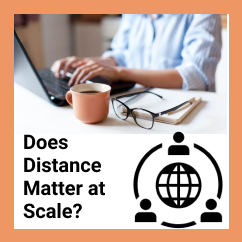
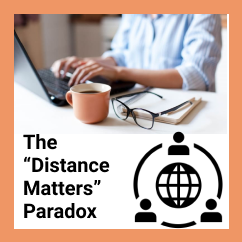
updates to main page and projects page

Changed region(s): [[0.0868, 0.5496, 0.4628, 0.8099], [0.0868, 0.8388, 0.405, 0.9256]]

diff --git a/projects.html b/projects.html
@@ -102,6 +102,26 @@
 
                 <!-- Begin publications section -->
                 <div class="Rtable Rtable--2cols Rtable--collapse">
+                
+                <div class="Rtable-cell" style="width: 165px;">
+                        <img  width="150" height="150" alt="Distance Matters Image" src="images/thumbs/projects/Distance-Matters.png">
+                </div>
+                <div class="Rtable-cell">
+                        <h2>A "Distance Matters" Paradox: Facilitating Intra-Team Collaboration Can Harm Inter-Team Collaboration</h2>
+                        <em>CSCW 2022 (Forthcoming)</em><br>
+                        <b>Xinlan Emily Hu</b>, Rebecca Hinds, Melissa A. Valentine, Michael S. Bernstein
+                        <br><br>
+                        <button type="button" class="collapsible">Read More</button>
+                        <div class="content" style="display: none;">
+                            <p>By identifying the socio-technical conditions required for teams to work effectively remotely, the Distance Matters framework has been influential in CSCW since its introduction in 2000. Advances in collaboration technology and practices have since brought teams increasingly closer to achieving these conditions. This paper presents a ten-month ethnography in a remote organization, where we observed that despite exhibiting excellent remote collaboration, teams paradoxically struggled to collaborate across team boundaries. We extend the Distance Matters framework to account for inter-team collaboration, arguing that challenges analogous to those in the original intra-team framework --- common ground, collaboration readiness, collaboration technology readiness, and coupling of work --- persist but are actualized differently at the inter-team scale. Finally, we identify a fundamental tension between the intra- and inter-team layers: the collaboration technology and practices that help individual teams thrive (e.g., adopting customized collaboration software) can also prompt collaboration challenges in the inter-team layer, and conversely the technology and practices that facilitate inter-team collaboration (e.g., strong centralized IT organizations) can harm practices at the intra-team layer. The addition of the inter-team layer to the Distance Matters framework opens new opportunities for CSCW, where balancing the tension between team and organizational collaboration needs will be a critical technological, operational, and organizational challenge for remote work in the coming decades.</p>
+                            
+                            <p><em>
+                            This project began as my Master's Thesis project for the degree of M.S. in Symbolic Systems at Stanford University. It was recently accepted to the ACM Conference on Computer-Supported Cooperative Work (CSCW).
+
+                            Please email me for a preprint!
+                            </em></p> 
+                        </div>
+                 </div>
 
 
                 <div class="Rtable-cell" style="width: 165px;">
@@ -117,7 +137,7 @@
                         <div class="content" style="display: none;">
                           <p>A jury of one’s peers is a prominent way to adjudicate disputes and is increasingly used in participatory governance online. The fairness of this approach rests on the assumption that juries are consistent: that the same jury would hand down similar judgments to similar cases. However, prior literature suggests that social influence would instead cause early interactions to cascade into different judgments for similar cases. In this paper, we report an online experiment that changes participants’ pseudonyms as they appear to collaborators, temporarily masking a jury’s awareness that they have deliberated together before. This technique allows us to measure consistency by reconvening the same jury on similar cases. Counter to expectation, juries are equally consistent as individuals, a result that is “good for democracy.” But this consistency arises in part due to group polarization, as consensus develops by hardening initial majority opinions. Furthermore, we find that aggregating groups’ perspectives without deliberation erodes consistency.</p>
 
-                            <p><em>I submitted this project in May 2020 as my Undergraduate Honors Thesis. This paper was conditionally accepted at the 2021 ACM CHI Conference on Human Factors in Computing in December 2020 and formally accepted in January 2021.</em></p>
+                            <p><em>I submitted this project in May 2020 as my Undergraduate Honors Thesis. This paper was conditionally accepted at the 2021 ACM CHI Conference on Human Factors in Computing in January 2021.</em></p>
 
                             <p><a href="https://hci.stanford.edu/publications/paper.php?id=402" target="_blank">Read it on the Stanford HCI Website</a></p>
                             <p><a href="https://osf.io/tv7j6/" target="_blank">View Data/Materials Released via Open Science Framework</a></p>  
@@ -152,27 +172,6 @@
                 <center><h1 class="display-1--with-line-sep">Projects</h1></center>
 
                 <div class="Rtable Rtable--2cols Rtable--collapse">
-                
-                <div class="Rtable-cell" style="width: 165px;">
-                        <img  width="150" height="150" alt="Distance Matters Image" src="images/thumbs/projects/Distance-Matters.png">
-                </div>
-                <div class="Rtable-cell">
-                        <h2>Does Distance Matter at Scale? Extending the "Distance Matters" Framework from Distributed Teams to Distributed Organizations</h2>
-                        <b>Xinlan Emily Hu</b> (Master's Thesis); Advised by Melissa A. Valentine and Michael S. Bernstein; joint work with Rebecca Hinds
-                        <br><br>
-                        <button type="button" class="collapsible">Read More</button>
-                        <div class="content" style="display: none;">
-                            <p>
-                            Distributed work has been a major area of focus for CSCW for the past two decades, as improved collaboration tools have made it possible to assemble distributed teams, abandon physical offices, and engage with collaborators across the world. Much of the CSCW literature on distributed work, however, focuses on intra-team dynamics. Notably, the "Distance Matters" framework has been influential in outlining five dimensions along which distributed teams must coordinate in order to work effectively: common ground, collaboration readiness, collaboration technology readiness, coupling of work, and organizational managerial aspects.</p>
-
-                            <p>However, an under-considered aspect of the literature is the question of how distributed collaboration scales from a single team to an entire organization. As remote work takes hold on an increasingly large scale, this question becomes crucial. Indeed, teams do not exist in a vacuum; realistically, they exist in relation to other teams, which in turn exist within a broader organization. An effective distributed organization must therefore engage with three levels of analysis: intra-team, inter-team, and organizational.</p>
-
-                            <p>In this paper, we expand the canonical "Distance Matters" framework and introduce a three-tiered model for studying distributed work, in which we describe how the canonical five dimensions of remote collaboration, developed at the intra-team level, should also be considered in a separate design process for the inter-team and organizational levels. The inter-team and organizational levels both produce novel collaboration and coordination challenges, as well as novel opportunities for resolving these challenges. Finally, we build this theory by presenting supporting ethnographic data from a field study at a major California National Laboratory, which transitioned the majority of its workforce to remote operations in the wake of the COVID-19 pandemic.</p>
-                            
-                            <p><em>
-                            This is my Master's Thesis project for the degree of M.S. in Symbolic Systems at Stanford University. It is currently being prepared for publication.</em></p> 
-                        </div>
-                 </div>
 
                  <div class="Rtable-cell" style="width: 165px;">
                         <img  width="150" height="150" alt="Smile and Nod Image" src="images/thumbs/projects/Smile-And-Nod.png">

diff --git a/index.html b/index.html
@@ -92,7 +92,7 @@
             <!-- </div> -->
 	    </a>
         <div class="header-container" style = "padding:3%; text-align: center;">
-            <p>I'm a PhD student in the <a href="https://oid.wharton.upenn.edu/" target="_blank"> Department of Operations, Information, and Decisions</a> at the Wharton School, University of Pennsylvania, starting Fall 2021. I will be joining Professor Duncan Watts in the <a href="https://css.seas.upenn.edu/" target="_blank">Computational Social Science Lab</a>.
+            <p>I'm a 1st year PhD student in the <a href="https://oid.wharton.upenn.edu/" target="_blank"> Department of Operations, Information, and Decisions</a> at the Wharton School, University of Pennsylvania. I am part of the <a href="https://css.seas.upenn.edu/" target="_blank">Computational Social Science Lab</a>, led by Professor Duncan Watts.
 
             <p>My research interest is in understanding the dynamics of human systems through computation — ranging from technology-mediated work to online decision-making groups — and applying these insights to the design of technology and organizations.</p>
 
